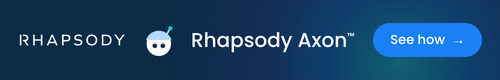
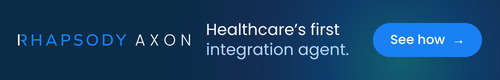
Use the Rhapsody Axon lockup as the mark on the HCITT ads
The lockup replaces the plain Rhapsody wordmark on both units. Because it
carries the product name permanently, the name comes out of the copy, which
frees the space the mark needed and drops the arc from three beats to two.

Sidebar: lockup at 240px, putting RHAPSODY at 151px, well over the 108px
on-screen floor and larger than the 108px wordmark it replaced. Teddie moves
down beside the CTA. Header: lockup at 172px, putting RHAPSODY at exactly the
floor, which is the smallest this lockup can go; the mascot comes off that unit
because the lockup, two lines of copy and a labelled pill already use the full
width.

The tagline is dropped. "Your AI agent for integration." only clears the 13px
floor at a lockup width around 272px, wider than the sidebar's 264px content
area, and renders at 8-10px at the widths that fit. The ads use a name-only
derivative; both it and the file as supplied are kept under source/.

The supplied lockup's RHAPSODY is the genuine official wordmark. Its path data
is byte-identical to brand/Rhapsody logo - blue-white under a uniform
scale(4.2918), ink box 232.22 x 24.00, aspect 9.6758, matching all three
official vectors. An earlier reading that it was ~4% stretched was a measurement
error, not a property of the file.

Two beats also halve the file sizes: 62 KB and 127 KB, with a 6.76s loop.

Outstanding for brand, recorded in the README: the lockup carries no trademark
mark, and with the name out of the copy nothing else in the ad does either, so a
[…]

Changed region(s): [[0.03, 0.275, 0.72, 0.75]]

diff --git a/deliverables/hcitt-display-ads/README.md b/deliverables/hcitt-display-ads/README.md
@@ -2,15 +2,16 @@
 
 Animated GIF creative for the Healthcare IT Today header and sidebar placements,
 built to the 2026 design system (`brand-design-system-2026`) with copy per
-`rhapsody-brand`. Angle: the Rhapsody Axon™ agentic story, with Teddie Mercury as
-the face of the assistant.
+`rhapsody-brand`. Angle: the Rhapsody Axon agentic story.
+
+> ⚠ **One blocker before these run: the lockup carries no ™.** See Open items.
 
 ## Files to send the publisher
 
 | Placement | File | Size | Weight |
 |---|---|---|---|
-| Header display ad | `rhapsody-hcitt-500x80.gif` | 500 × 80 | 92 KB |
-| Sidebar display ad | `rhapsody-hcitt-300x250.gif` | 300 × 250 | 178 KB |
+| Header display ad | `rhapsody-hcitt-500x80.gif` | 500 × 80 | 62 KB |
+| Sidebar display ad | `rhapsody-hcitt-300x250.gif` | 300 × 250 | 127 KB |
 
 **Click URL (both units):** `https://rhapsody.health/solutions/axon-ai-interoperability/`
 Append the tracking parameters before handoff. Healthcare IT Today accepts tracking links.
@@ -21,60 +22,70 @@ Append the tracking parameters before handoff. Healthcare IT Today accepts track
 |---|---|
 | `*-loop.gif` | Identical creative set to loop continuously instead of stopping |
 | `*-static.png` / `*-static.jpg` | Non-animated fallback, if a slot rejects GIF. Shows the closing frame |
+| `source/` | The Rhapsody Axon lockup as supplied, plus the name-only derivative the ads use |
+
+## The mark
+
+The **Rhapsody Axon lockup replaces the plain Rhapsody wordmark** on both units.
+Because the lockup carries the product name permanently, the name comes out of the
+copy, which is what buys the extra room.
+
+- Sidebar: lockup at 240px, so RHAPSODY inside it measures 151px, well over the
+  108px on-screen floor and noticeably larger than the 108px plain wordmark it replaced.
+- Header: lockup at 172px, which puts RHAPSODY at 108px, exactly the floor. That is
+  the smallest this lockup can legally go.
+- **The tagline is dropped.** "Your AI agent for integration." only clears the 13px
+  floor at a lockup width of about 272px, which is wider than the sidebar's 264px
+  content area. At the widths that fit it renders around 8–10px. The ads use the
+  name-only derivative in `source/axon-lockup-name-only.svg`.
+
+The supplied lockup's RHAPSODY is the genuine official wordmark: its path data is
+byte-identical to `brand/Rhapsody logo - blue-white/Rhapsody_logo_blue-white.svg`
+under a uniform `scale(4.2918)`, and its ink box is 232.22 × 24.00, aspect 9.6758,
+matching all three official vectors exactly. Nothing is stretched or recolored.
 
 ## Animation
 
-Three message beats, cross-faded, over a still Aurora soft wash on navy.
+Two message beats, cross-faded, over a still Aurora soft wash on navy.
 
 1. The problem, in the reader's words
-2. The category claim
-3. **Rhapsody Axon™** + the CTA, which is where the ad comes to rest
+2. The claim, which is where the ad comes to rest, with the CTA
 
-The Rhapsody logo, Teddie and the Rhapsody Blue CTA pill are on screen the whole
-time, so the ad is clickable and attributable at every moment of the loop.
-
-- **Loop:** 9.44s, played 3 times, then holds on the Rhapsody Axon™ + CTA frame.
-  Total motion ≈ 28s. The `-loop` files run continuously instead.
+- **Loop:** 6.76s, played 3 times, then holds on the claim frame. Total motion ≈ 20s.
+  The `-loop` files run continuously instead.
 - **Cross-fade:** 480ms, ease-in-out sine. No flashing, no strobing, no hard cuts.
-- Aurora is delivered as the **still** soft wash. It is the approved register for a
-  layout this small, and it keeps the files light. (A drifting Aurora re-encodes the
-  whole gradient on every frame and pushes the sidebar unit past 260 KB for motion
-  that is imperceptible at 300 × 250.)
-- Teddie is **static**. The mascot card allows animating him only from the approved
-  animation files, and the only art available here is a still.
+- Aurora is the **still** soft wash, the approved register at this size, and it keeps
+  the files light. Teddie is **static**; the mascot card permits animating him only
+  from the approved animation files, and only a still is available here.
 
 ## Copy
 
 **500 × 80 header**
 1. More interfaces. *Same team.*
-2. The first healthcare integration agent.
-3. **Rhapsody Axon™** · CTA: See how →
+2. Healthcare's first *integration agent.*
 
 **300 × 250 sidebar**
 1. Your interface queue keeps growing. *Your team hasn't.*
-2. The first healthcare integration agent.
-3. **Rhapsody Axon™** / Built into Rhapsody and Corepoint · CTA: See how it works →
+2. The first healthcare *integration agent.*
 
 Beat 1 leads with the reader's reality before any product mention, per the
-audience-first rule. *Italics* above mark the light-blue half of the two-tone headline.
+audience-first rule. *Italics* mark the light-blue half of the two-tone headline.
+The header says "Healthcare's first" rather than "The first healthcare" purely to
+break over two lines in the 159px the lockup leaves; the claim is the same.
 
-There is no eyebrow on either unit. The earlier `AGENT-READY` label was the website's
-"Agent-ready interoperability" eyebrow truncated to fit, and it read as a fragment.
-Teddie now holds that slot, which is a better use of it than a shortened label.
+No eyebrow on either unit, and no mono type anywhere now. "Axon" never appears alone
+in the copy because it never appears in the copy at all. The lockup carries the name,
+and it reads "RHAPSODY AXON", satisfying the rule that the mark never stands as "Axon".
 
-## Teddie Mercury placement
+## Teddie Mercury
 
-Per the mascot card, he is the friendly face of the Rhapsody Axon assistant, so this
-is the right asset for an Axon-led ad. The usage rules are met:
+**Sidebar only.** He sits bottom-right beside the CTA at 40px. The header cannot take
+him: the lockup, two lines of copy and a labelled pill already use the full 500px, and
+adding him drops the copy column to 126px, which is about 15 characters a line.
 
-- **Beside the copy, never in it.** Top-right on the sidebar, after the logo on the
-  header. He is not in a headline, a capability statement, or a product lockup.
-- **Subordinate to the message.** 50px on the sidebar, 32px on the header, against a
-  22–29px headline. He accents, he does not lead.
-- **Clear of the logo.** At least 20px of separation, against a required clear space of
-  X (the height of the R, ~16px at the delivered logo width). Not merged into a lockup.
-- **Navy ground, soft Aurora glow**, which the card names as his habitat on the website.
-- **No dot devices.** One Teddie per asset. Not recolored, re-posed or given props.
+Placement follows the mascot card: beside the copy and never in it, subordinate to the
+headline, clear of the mark, not merged into a lockup, on navy over a soft Aurora glow,
+no dot device, one per asset, not recolored or re-posed.
 
 ## Brand check
 
@@ -82,43 +93,44 @@ is the right asset for an Axon-led ad. The usage rules are met:
   one secondary accent. Navy-dominant. Teal `#23C5BF` appears only inside the Aurora
   glow and on Teddie's antenna, both of which carry their own sanctioned palettes.
 - Aurora on navy only; glow runs teal → blue → purple, never orange. One device per ad.
-- Poppins Regular for copy, Medium for the product name and the CTA. No mono type
-  remains now that the eyebrow is gone.
-- One-color white logo on the dark ground, 108px wide (the on-screen minimum), with
-  clear space ≥ the height of the R on every side.
-- Light blue 5.4–8.6:1, white 8.0–13.4:1, measured per pixel against the actual
+- Poppins Regular for copy, Medium for the CTA.
+- Light blue 5.4–9.2:1, white 8.0–13.5:1, measured per pixel against the actual
   rendered Aurora background rather than a flat navy assumption.
-- Rhapsody Axon™ carries the ™ on its first and most prominent use, and never
-  appears as "Axon" alone. No "integration engine", no em dashes, no end periods on
-  the single-sentence beats.
+- No "integration engine", no em dashes, no end periods on the single-sentence beats.
 - Copy was shortened to fit, never tracked or scaled down.
 
 ## Rebuilding
 
-Source and tooling live in the session scratchpad, not in this repo. To regenerate:
-`src/ad.html` renders any frame of either unit from `?unit=side|hdr&t=<ms>`, with
-`&teddie=0` for a mascot-free version and `&chip=1` for the header's arrow-chip CTA;
-`render.js` screenshots the frame plan with headless Chromium at 3x; `build_gif.py`
-downsamples, dithers the shared background once and composites crisp type over it.
+Source and tooling live in the session scratchpad, not in this repo. `src/ad.html`
+renders any frame of either unit from `?unit=side|hdr&t=<ms>`, with `&teddie=0` for a
+mascot-free version; `render.js` screenshots the frame plan with headless Chromium at
+3x; `build_gif.py` downsamples, dithers the shared background once and composites
+crisp type over it.
 
 ## Open items
 
+- **The lockup carries no ™, and nothing else in the ad does either.** The brand rule
+  is that ™ goes on the first and most prominent use of Rhapsody Axon in any asset.
+  Until the name was in the copy, the typeset "Rhapsody Axon™" satisfied that; now the
+  lockup is the only instance and it has no mark. A ™ cannot be added to a logo here,
+  so **request the Rhapsody Axon lockup with ™ from brand and swap it in.** Treat this
+  as required before the ads run, not as a nice-to-have.
+- **A one-colour white lockup would be more correct at these sizes.** The supplied file
+  is the blue-wordmark-plus-white-line variant, which the guide reserves for large
+  sizes on dark grounds; below that it calls for one-colour white. The header's
+  RHAPSODY sits exactly at the 108px floor, which is not "large". Recoloring the
+  supplied file is not allowed, so this needs the white lockup from brand.
+- **Teddie should be re-mastered from the isolated character file.** The only art in
+  this repo is the homepage hero still, where he sits at the centre of the dot
+  constellation. He was isolated from it losslessly by connected component, at native
+  resolution, with no redraw, recolor, re-pose or rescale and every constellation dot
+  dropped. That is still an extraction from a composite rather than the master.
 - **Teddie needs a brand sign-off for this placement.** The mascot card lists his
   approved homes as the homepage hero, Rhapsody Axon AI feature bands, and culture,
   event and swag moments. A paid display ad is none of those, though it is an Axon AI
-  message on navy over Aurora, which is the band case in all but placement. The brand
-  guide's rule is to leave him out unless the requester asks, and the requester asked.
-- **Teddie should be re-mastered from the isolated character file.** The only art in
-  this repo is `assets/figures/teddie-hero-frame.png`, the homepage hero still, where
-  he sits at the centre of the dot constellation. He was isolated from it losslessly by
-  connected component, at native resolution, with no redraw, recolor, re-pose or
-  rescale of the character itself, and every constellation dot dropped. That is still
-  an extraction from a composite rather than the master, so swap in the isolated file
-  from the brand package before these go out.
-- Healthcare IT Today publishes no maximum file weight for these slots. Both units
-  are under 200 KB, which clears the common 200 KB publisher cap. Confirm with the rep.
-- If the rep enforces the legacy 15-second animation cap, drop to 2 loops and
-  shorten the dwells; the timing constants are at the top of `src/ad.html`.
-- Aurora is rendered here as an in-system CSS wash, the same way the Light devices
-  card renders it in HTML. If brand would rather these ship against the official
-  AuroraGlow master art, swap the background plate and re-run the build.
+  message on navy over Aurora, which is the band case in all but placement.
+- Healthcare IT Today publishes no maximum file weight for these slots. Both units are
+  well under 200 KB. Confirm with the rep.
+- Aurora is rendered as an in-system CSS wash, the same way the Light devices card
+  renders it in HTML. If brand would rather these ship against the official AuroraGlow
+  master art, swap the background plate and re-run the build.
